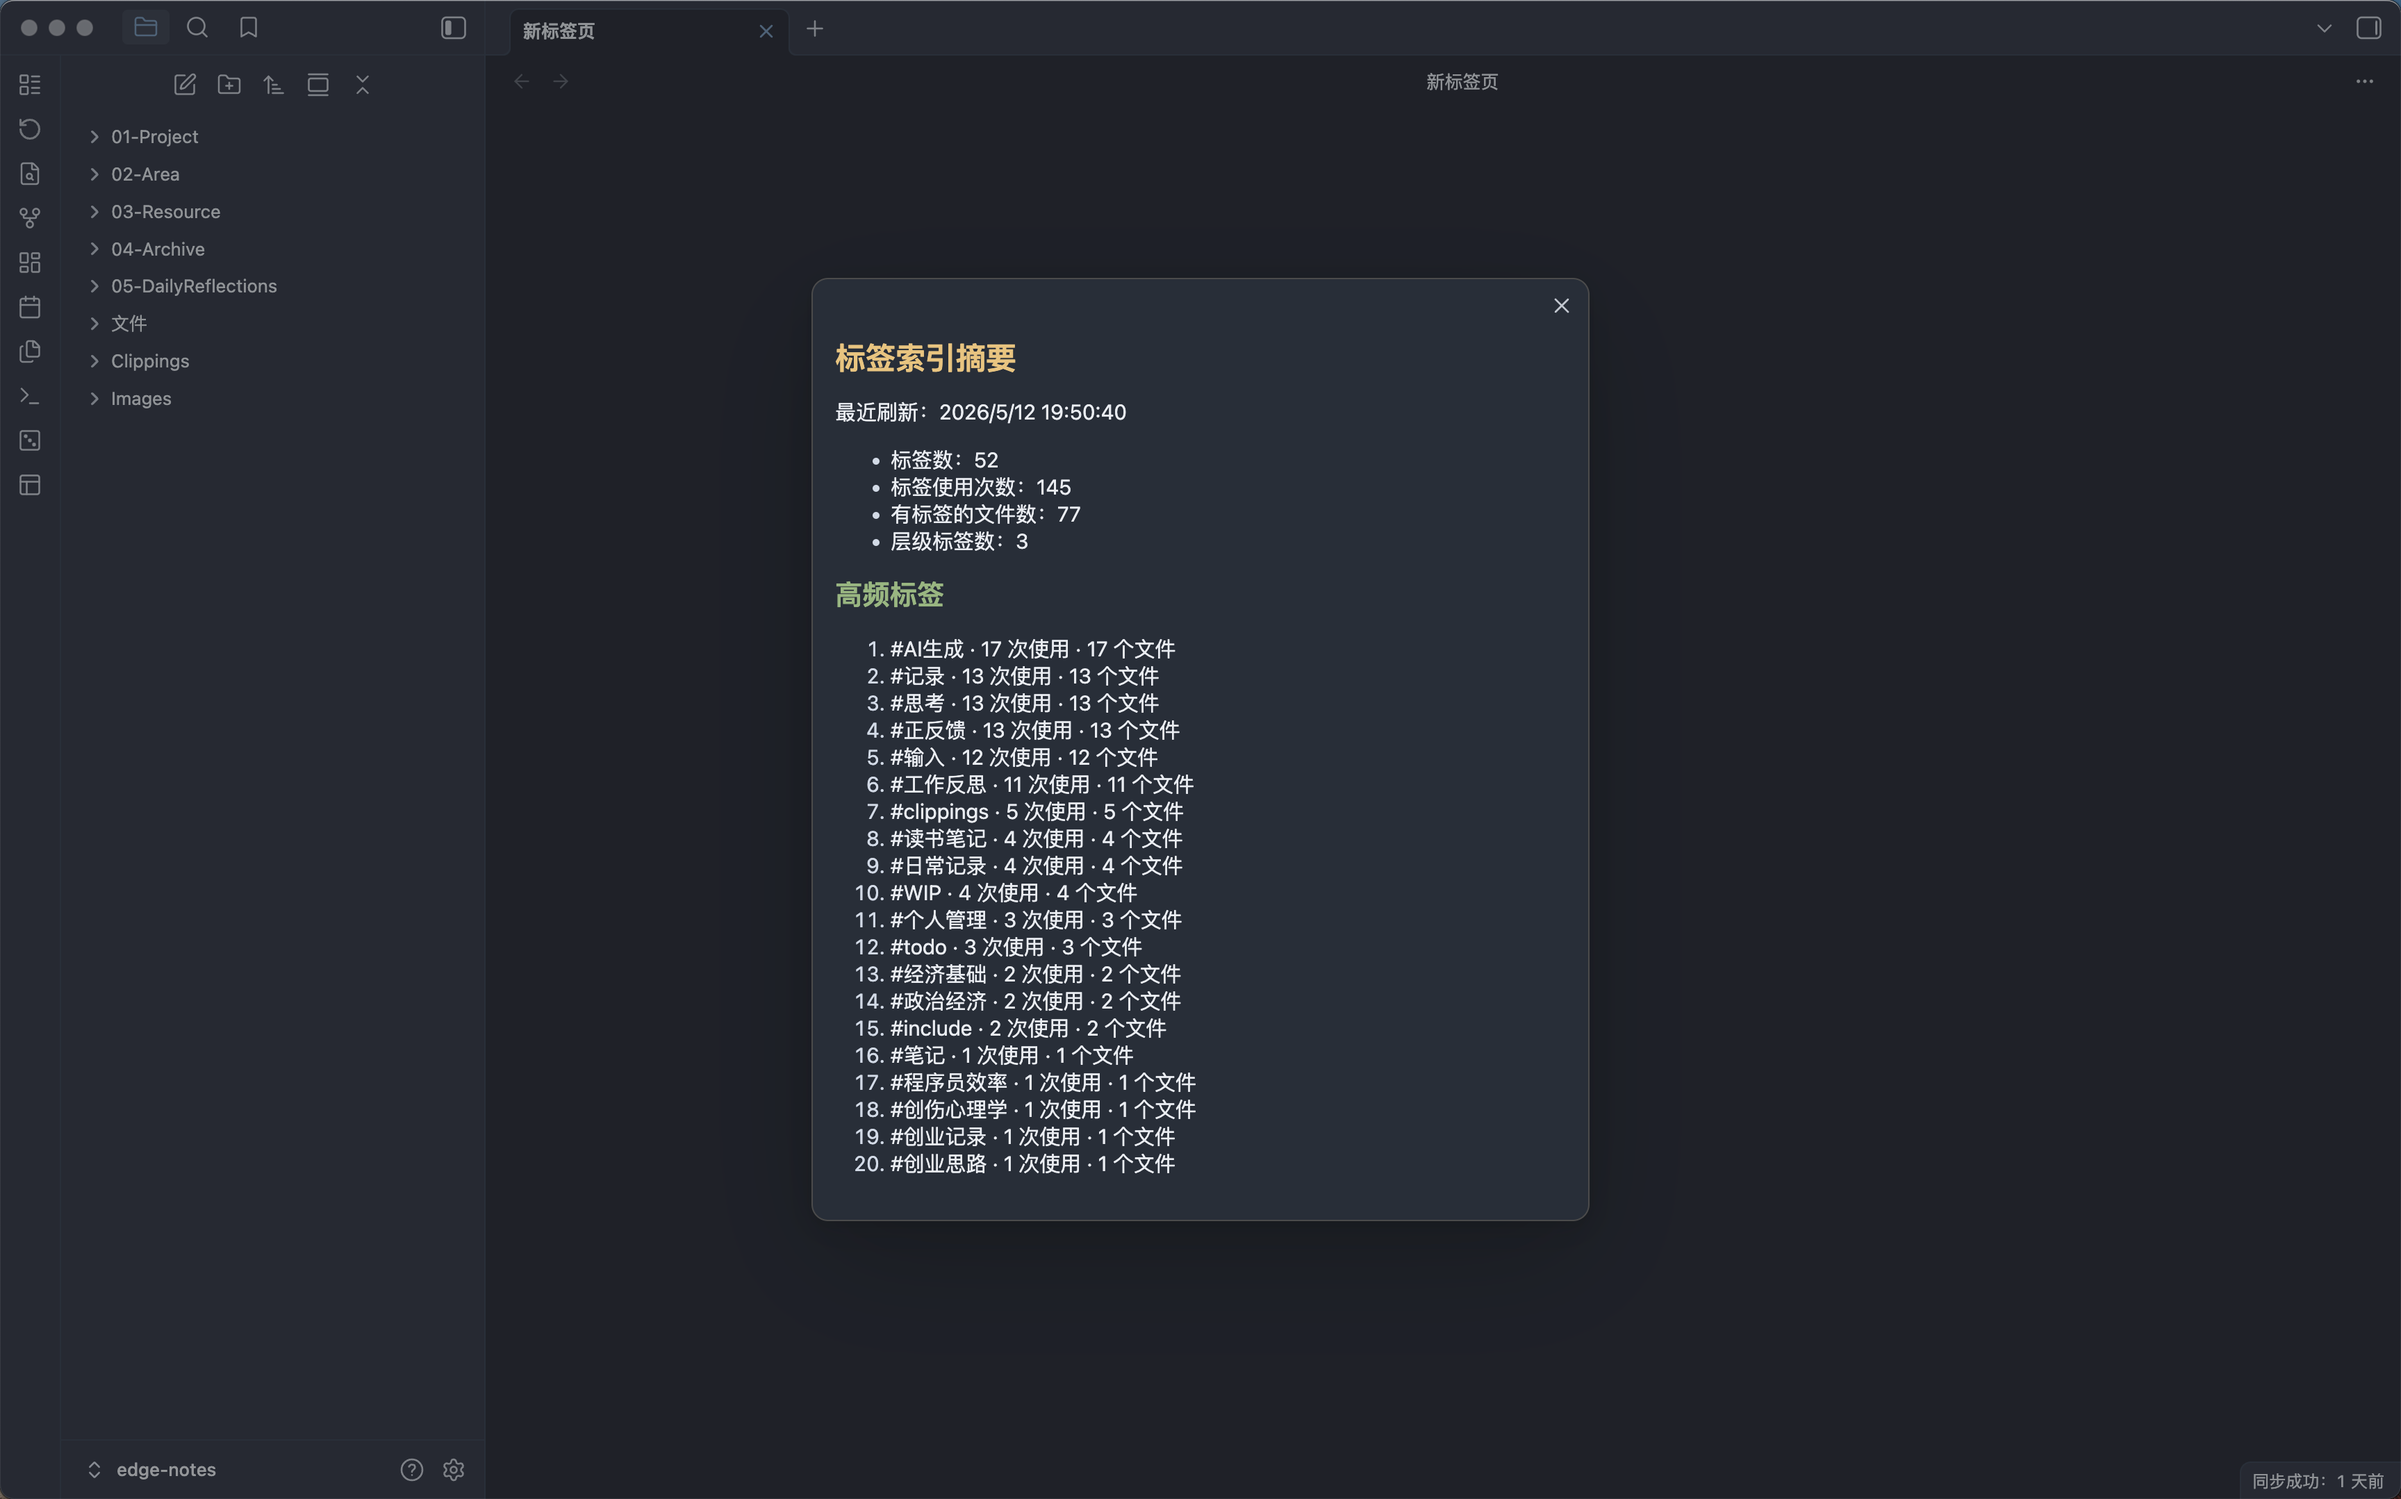
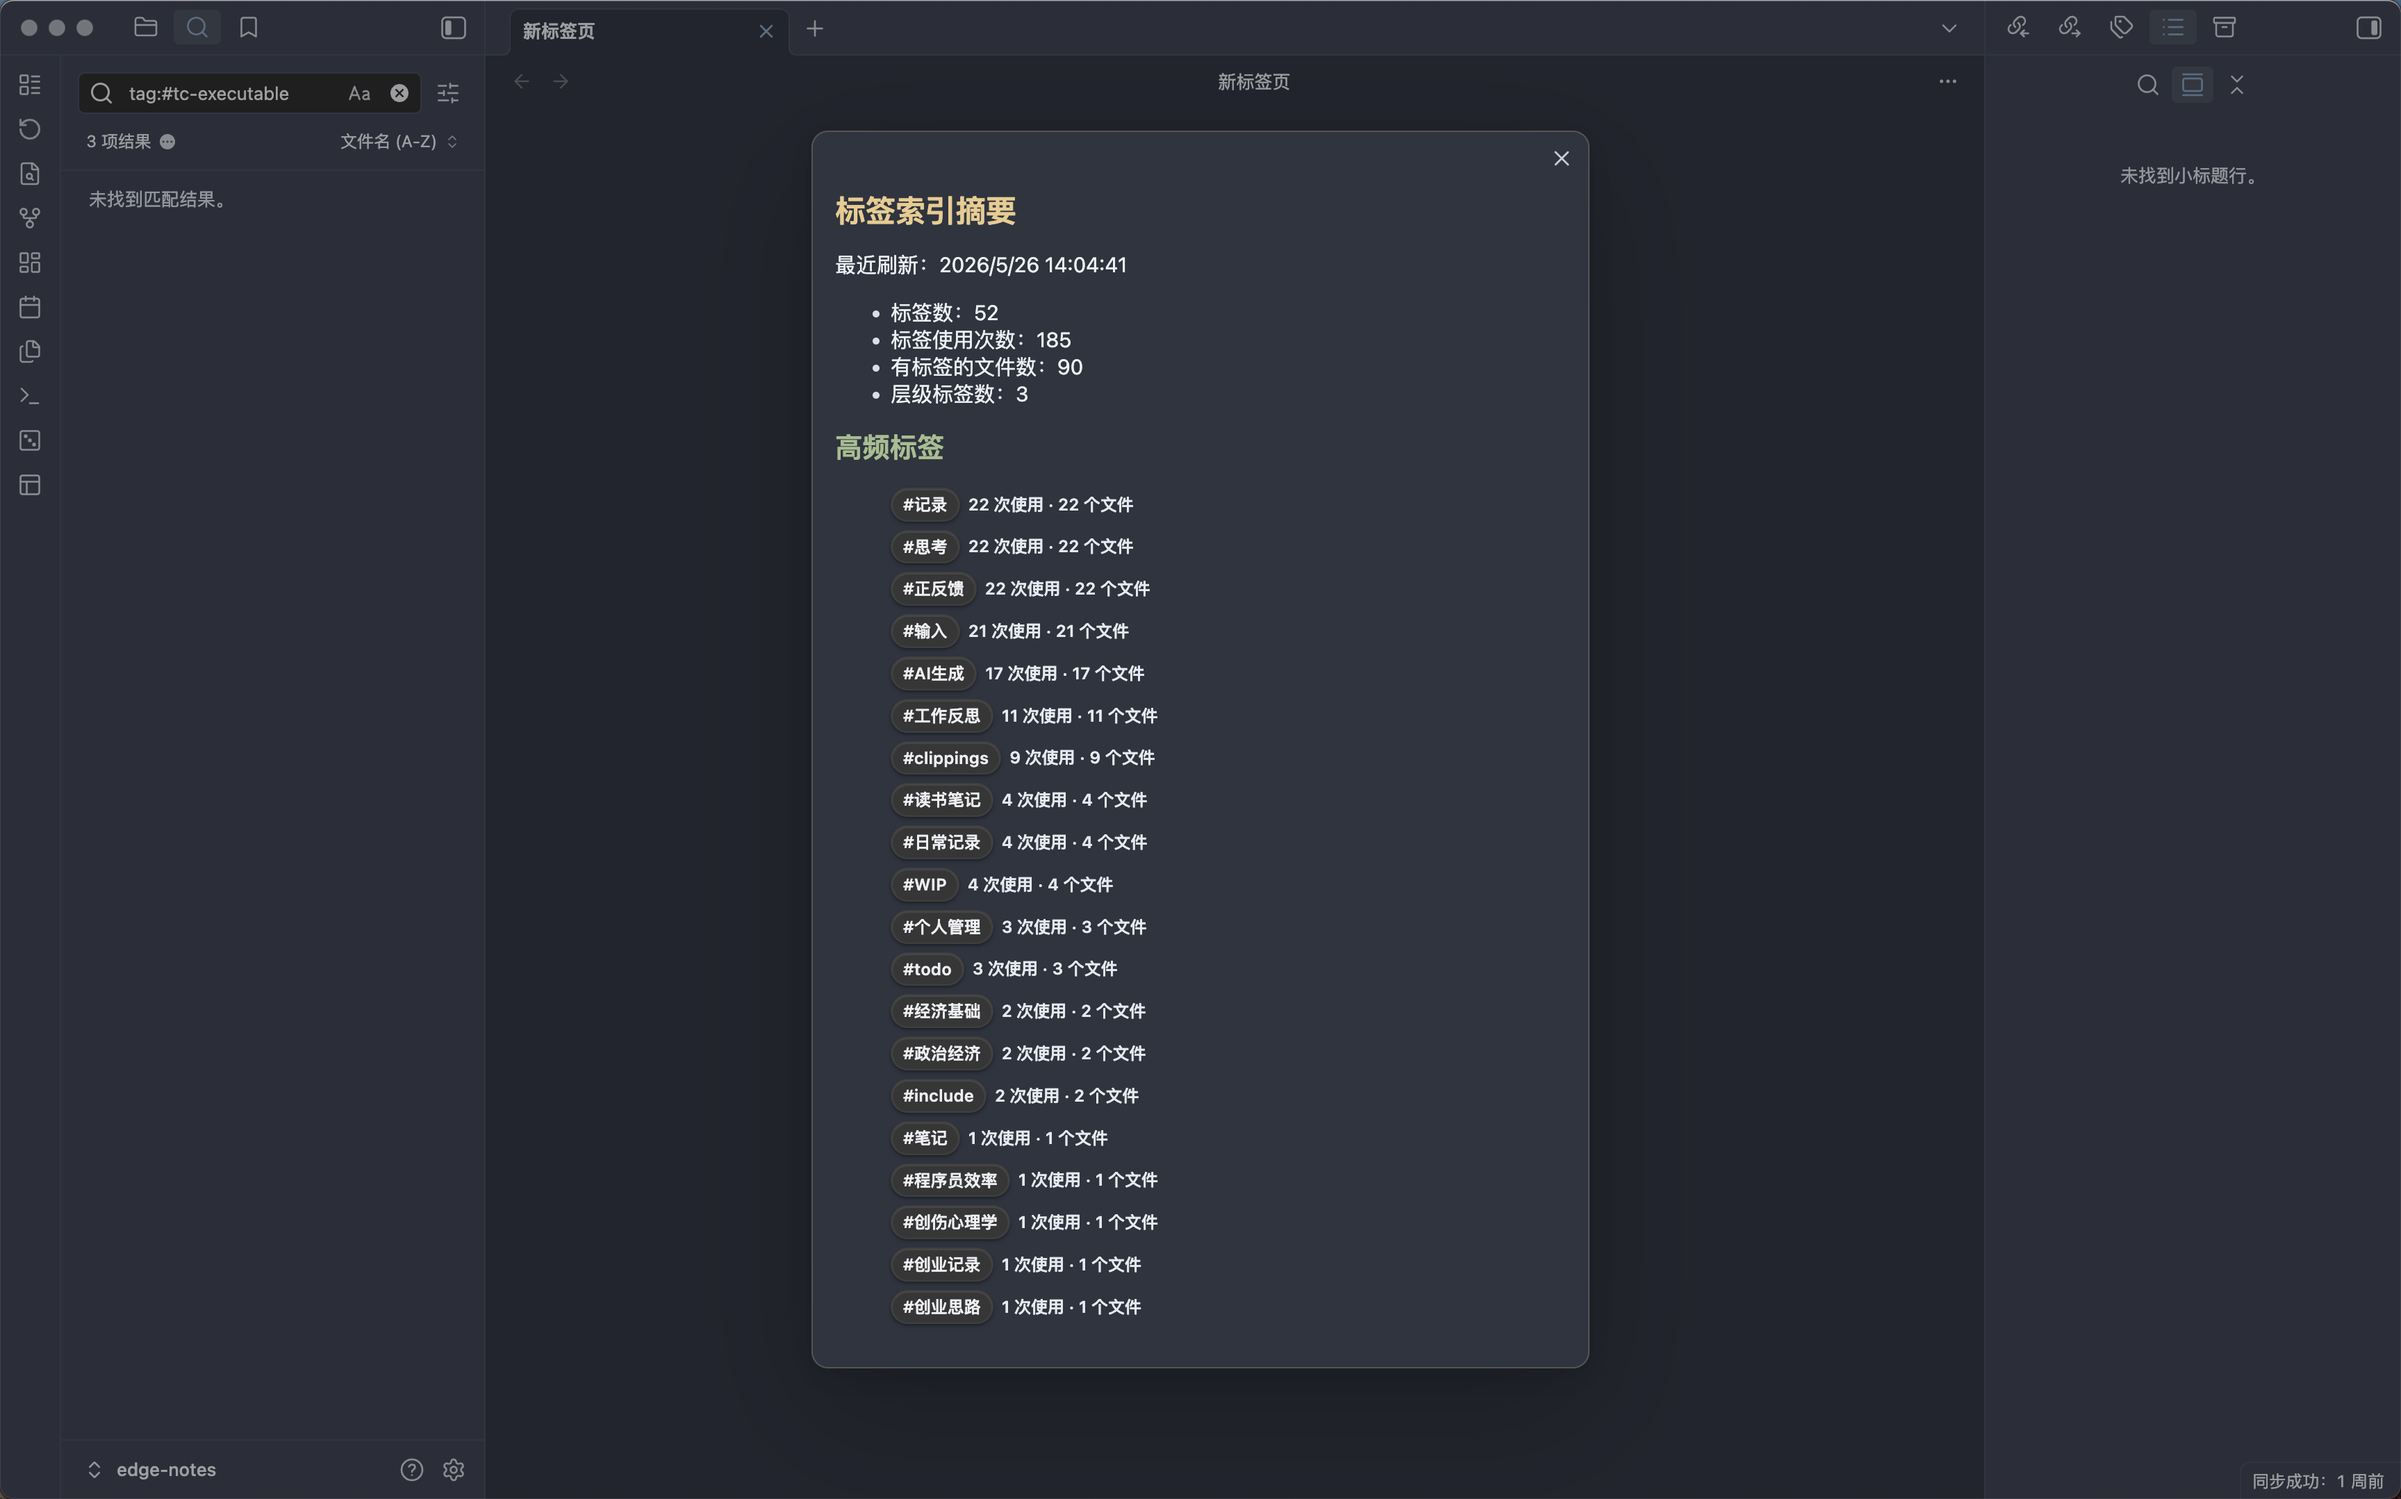
chore: 准备 0.1.2 发布版本
中文

标题：准备 0.1.2 发布版本

变更要点：
- 将 package、manifest、lockfile 和 versions 映射更新到 0.1.2。
- 将 CHANGELOG 改为中英文双语版本记录，并补充 0.1.2 的变更和验证信息。
- 更新中英文 README 的能力说明和真实界面截图，替换标签索引与标签推荐截图，并新增健康报告 AI 行动建议、应用后回退和规则证据截图。
- 在发布清单中记录 0.1.2 的自动验证和真实 Obsidian 库手动验收项。

验证要点：
- 运行 `openspec validate --all`，4 个规范通过。
- 运行 `npm test`，23 个测试文件、45 个测试通过。
- 运行 `npm run build`，生产构建通过。
- 运行 `git diff --check`，未发现空白或补丁格式问题。

English

Title: Prepare the 0.1.2 release

Changes:
- Update package, manifest, lockfile, and versions mapping to 0.1.2.
- Convert CHANGELOG to bilingual Chinese and English release notes, including 0.1.2 changes and verification details.
- Update English and Chinese README capability descriptions and real UI screenshots, replacing tag index and tag recommendation screenshots and adding health report AI action, post-apply undo, and rule evidence screenshots.
- Record 0.1.2 automated checks and real Obsidian vault smoke-test coverage in the release checklist.

Verification:
- Ran `openspec validate --all`, with 4 specs passing.
- Ran `npm test`, with 23 test files and 45 tests passing.
- Ran `npm run build`, with the production build passing.
- Ran `git diff --check`, with no whitespace or patch-format issues.

diff --git a/CHANGELOG.md b/CHANGELOG.md
@@ -1,8 +1,55 @@
 # Changelog
 
+## 0.1.2
+
+中文
+
+### 新增
+
+- 按标签索引时间缓存 AI 增强标签健康分析，并在重新打开报告时展示上次分析时间。
+- 在 AI 行动建议中展示面向用户的优先级、置信度、可执行状态、诊断、原因、目标标签、规则证据和注意事项。
+- 新增可重复的健康报告 Modal 布局回归测试，覆盖固定高度和内容滚动行为。
+
+### 变更
+
+- 将 AI 行动建议作为主要行动层展示，规则证据继续作为事实明细层。
+- 将应用和回退控件限定在可执行的合并或重命名建议上，同时保留 Markdown 计划复制能力。
+- 优化健康报告 Modal 布局，让长证据内容在报告内部滚动，避免 Modal 尺寸随内容跳动。
+
+### 验证
+
+- 自动发布检查：`openspec validate --all`、`npm test`、`npm run build` 和 `git diff --check`。
+- 2026-05-26 在真实 Obsidian 库中手动 smoke test：验证中文健康报告总览、AI 行动建议、可执行应用/回退控件、Markdown 计划复制、规则证据标签页和相关文件示例。
+
+English
+
+### Added
+
+- Cache AI-enhanced tag health analysis by tag-index timestamp and show the last analysis time when reopening the report.
+- Show user-facing AI action guidance with priority, confidence, actionability, diagnosis, rationale, target tags, rule evidence, and caution notes.
+- Add a repeatable modal layout regression test for stable health report height and scroll behavior.
+
+### Changed
+
+- Keep AI action suggestions as the primary action layer while rule evidence remains the factual detail layer.
+- Scope apply and undo controls to executable merge or rename actions, with Markdown plan copy controls available for review.
+- Improve the health report modal layout so long evidence sections scroll inside the report instead of resizing the modal.
+
+### Verification
+
+- Automated release checks: `openspec validate --all`, `npm test`, `npm run build`, and `git diff --check`.
+- Manual Obsidian smoke test in a real vault on 2026-05-26: verified Chinese health report summary, AI action suggestions, executable apply/undo controls, Markdown plan copy, rule evidence tabs, and related file examples.
+
 ## 0.1.1
 
-Release candidate for Obsidian Community Plugins review.
+中文
+
+### 修复
+
+- 根据自动审核检查结果更新发布元信息。
+- 准备新的 GitHub Release 版本，便于 Obsidian 使用新的发布资产重新运行发布检查。
+
+English
 
 ### Fixed
 
@@ -11,7 +58,28 @@ Release candidate for Obsidian Community Plugins review.
 
 ## 0.1.0
 
-Initial public MVP release.
+中文
+
+### 新增
+
+- 从 frontmatter tags、Obsidian metadata 和可选 inline tags 构建可复用的库标签索引。
+- 为当前笔记推荐标签，并展示 AI 生成的理由、置信度和相近但未选标签。
+- 优先复用库中已有标签，并过滤当前笔记已经拥有的标签。
+- 只有用户确认后，才把选中的标签写入 frontmatter。
+- 支持撤销本插件对当前笔记最近一次标签写入。
+- 生成只读的库级标签健康报告。
+- 识别低频标签、近似重复标签、层级问题、过宽或过细标签和命名风格漂移。
+- 可选运行 AI 增强健康分析，生成摘要和优先行动项。
+- 支持中文、英文和 Auto UI 语言模式。
+- 支持 DeepSeek、OpenAI 等 OpenAI-compatible provider。
+- 在开发模式中展示长耗时 AI 操作的阶段耗时。
+
+### 说明
+
+- 标签健康报告仅用于诊断，不会修改 Markdown 文件。
+- 批量清理计划、批量写入和批量撤销属于后续版本规划。
+
+English
 
 ### Added
 

diff --git a/README.md b/README.md
@@ -29,11 +29,15 @@ AI Tag Curator is not a generic "generate tags for this note" plugin. It helps y
 - Organize vault-level tag health into overview, AI priority actions, and rule evidence details.
 - Group health issues such as low-frequency tags, near duplicates, hierarchy inconsistencies, over-broad tags, over-narrow tags, and naming drift.
 - Use rule analysis for factual evidence and action safety boundaries; use AI assistance for merging related issues, explaining rationale, ranking priorities, and adding risk notes.
+- Show user-facing AI action cards with priority, confidence, actionability, diagnosis, rationale, target tags, rule evidence, and caution notes.
+- Cache AI-enhanced analysis for the current tag index and show the last analysis time when reopening the report.
 - Executable merge/rename suggestions can show file previews, be applied manually, and be undone. Observation, broad split, deprecation, and removal suggestions stay read-only or manual-review.
+- Copy AI action and cleanup suggestions as Markdown for external review.
 - Click health report tags to copy and search them in Obsidian.
-![Health report initial concept](docs/images/tag-health-report-initial-concept.png)
-![AI analysis loading concept](docs/images/tag-health-report-ai-loading-concept.png)
-![AI analysis results concept](docs/images/tag-health-report-ai-results-concept.png)
+- Keep long reports scrollable inside a stable modal layout.
+![AI action suggestions](docs/images/tag-health-report-ai-actions.png)
+![Applied AI action with undo](docs/images/tag-health-report-ai-actions-applied.png)
+![Rule evidence details](docs/images/tag-health-report-rule-evidence.png)
 
 
 **Settings**
@@ -158,7 +162,7 @@ For new product work, start with an OpenSpec change proposal before implementati
 - The MVP only writes to the current note's frontmatter `tags`.
 - Inline tags are read for indexing but are not automatically rewritten yet: body tags may appear in quotes, code blocks, links, or prose, so safe writes need position-level diffs, operation logs, and conflict detection.
 - Rule evidence in tag health reports is read-only. Executable cleanup items require file previews and explicit manual confirmation.
-- AI-enhanced health analysis only returns a summary and prioritized action items.
+- AI-enhanced health analysis provides summary and action guidance only; it cannot change local action capability or execute changes.
 - Cleanup plans label action capabilities. Executable merge/rename items can be applied manually and undone; other items remain preview-only, observe-only, or manual-review.
 - AI responses must be valid structured JSON. If parsing fails, no file is modified.
 

diff --git a/docs/release-checklist.zh-CN.md b/docs/release-checklist.zh-CN.md
@@ -84,3 +84,33 @@ Obsidian 安装插件时会根据 `manifest.json` 中的版本号查找同名 Gi
 4. 创建同版本 GitHub Release。
 
 Obsidian 客户端会从 GitHub Release 拉取新版本。
+
+## 7. 0.1.2 发布验收记录
+
+版本信息：
+
+- `package.json`：`0.1.2`
+- `manifest.json`：`0.1.2`
+- `versions.json`：包含 `0.1.2 -> 1.8.7`
+
+发布资产：
+
+- `main.js`
+- `manifest.json`
+- `styles.css`
+
+自动验证：
+
+- `openspec validate --all`
+- `npm test`
+- `npm run build`
+- `git diff --check`
+
+真实 Obsidian 库手动验收：
+
+- 标签健康报告能展示中文总览、生成时间、索引时间、标签数、使用次数、风险分组和可执行建议数。
+- AI 行动建议能展示上次分析时间、诊断说明、原因、目标标签、规则证据、注意事项、优先级、置信度和可执行状态。
+- 可执行合并/重命名建议能显示 `应用`，应用后能显示 `回退`。
+- `复制 Markdown 计划` 在 AI 行动层和规则证据层均可见。
+- 规则证据明细能切换问题类型，并展示相关文件示例与当前标签。
+- 长内容在报告内部滚动，Modal 尺寸保持稳定。
